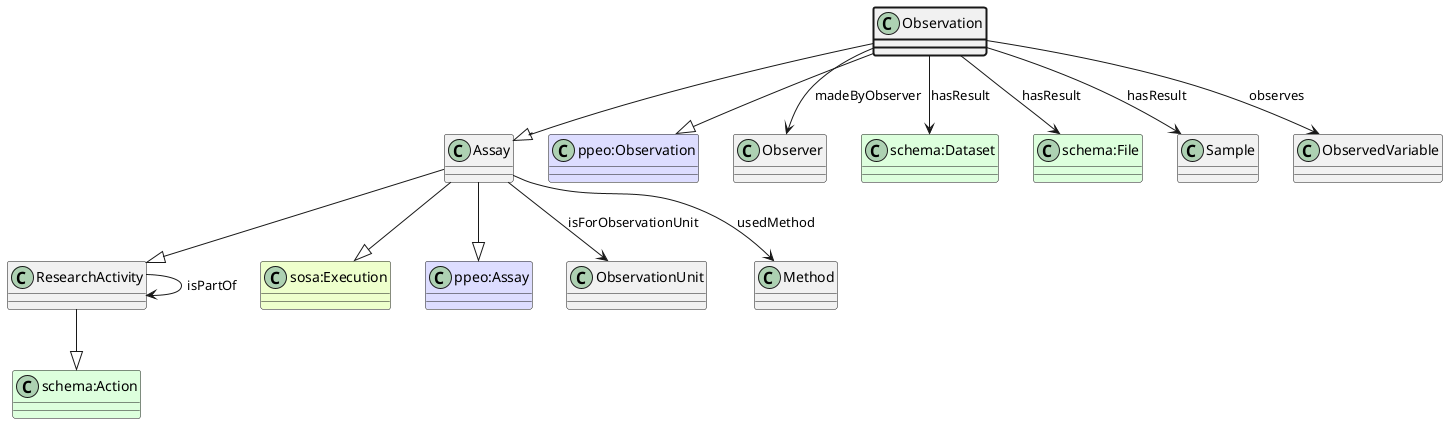
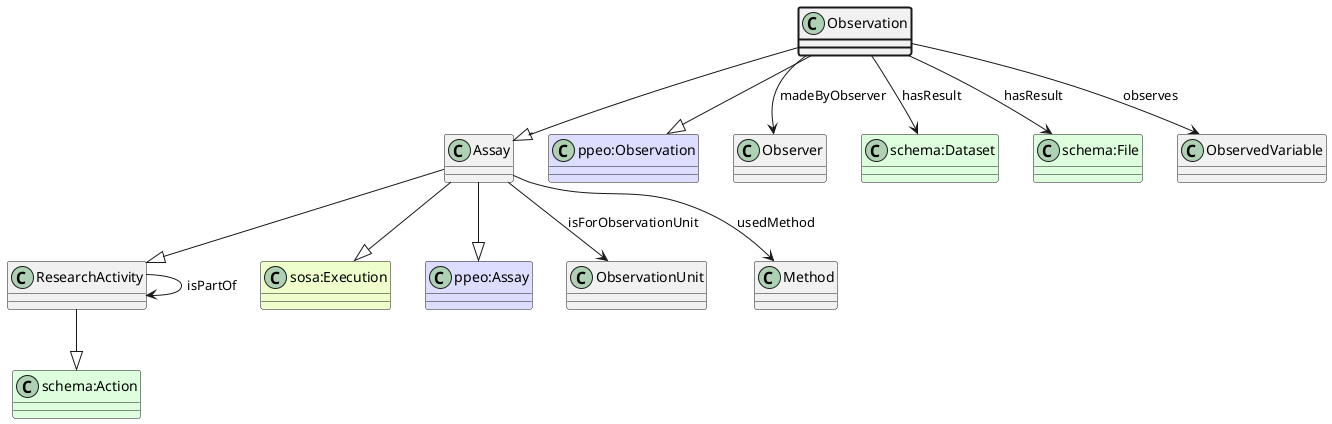
producesSample

diff --git a/ttl2uml.py b/ttl2uml.py
@@ -241,7 +241,6 @@ def write_children(uml: io.TextIOWrapper, md: io.TextIOWrapper, cls: tuple[str,s
             uml.write(f"{child_name} --|> {class_name}\n")
     return class_name
 
-
 # Parse the turtle
 with open(ttl_file) as f:
     for line in f:

diff --git a/doc/appn_Sample.md b/doc/appn_Sample.md
@@ -14,10 +14,7 @@ Sample.
 * https://www.w3.org/ns/sosa/FeatureOfInterest
 * https://bioschemas.org/BioChemEntity
 ## Properties
-* [appn:Observation](/doc/appn_Observation.md) appn:hasResult appn:Sample
-* [appn:Control](/doc/appn_Control.md) appn:hasResult appn:Sample
-* [appn:Transformation](/doc/appn_Transformation.md) appn:hasResult appn:Sample
-* [appn:Sampling](/doc/appn_Sampling.md) appn:hasResult appn:Sample
+* [appn:Sampling](/doc/appn_Sampling.md) appn:producesSample appn:Sample
 * [appn:BiologicalUnit](/doc/appn_BiologicalUnit.md) appn:hasBiologicalUnitType [appn:BiologicalUnitType](/doc/appn_BiologicalUnitType.md)
 * [appn:BiologicalUnit](/doc/appn_BiologicalUnit.md) appn:hasBiologicalMaterial [appn:BiologicalMaterial](/doc/appn_BiologicalMaterial.md)
 * [appn:Assay](/doc/appn_Assay.md) appn:isForObservationUnit [appn:ObservationUnit](/doc/appn_ObservationUnit.md)

diff --git a/doc/appn_Sampling.md b/doc/appn_Sampling.md
@@ -13,9 +13,7 @@ An Assay that derives a new representative ObservationUnit from an existing Obse
 * http://purl.org/ppeo/PPEO.owl#Assay
 ## Properties
 * appn:Sampling appn:madeBySampler [appn:Sampler](/doc/appn_Sampler.md)
-* appn:Sampling appn:hasResult [schema:Dataset](https://schema.org/Dataset)
-* appn:Sampling appn:hasResult [schema:File](https://schema.org/File)
-* appn:Sampling appn:hasResult [appn:Sample](/doc/appn_Sample.md)
+* appn:Sampling appn:producesSample [appn:Sample](/doc/appn_Sample.md)
 * appn:Sampling appn:isMadeBySampler [appn:Sampler](/doc/appn_Sampler.md)
 * [appn:Assay](/doc/appn_Assay.md) appn:isForObservationUnit [appn:ObservationUnit](/doc/appn_ObservationUnit.md)
 * [appn:Assay](/doc/appn_Assay.md) appn:usedMethod [appn:Method](/doc/appn_Method.md)

diff --git a/doc/appn_Observation.md b/doc/appn_Observation.md
@@ -16,7 +16,6 @@ An Assay that observes or measures properties of one or more ObservationUnits re
 * appn:Observation appn:madeByObserver [appn:Observer](/doc/appn_Observer.md)
 * appn:Observation appn:hasResult [schema:Dataset](https://schema.org/Dataset)
 * appn:Observation appn:hasResult [schema:File](https://schema.org/File)
-* appn:Observation appn:hasResult [appn:Sample](/doc/appn_Sample.md)
 * appn:Observation appn:observes [appn:ObservedVariable](/doc/appn_ObservedVariable.md)
 * [appn:Assay](/doc/appn_Assay.md) appn:isForObservationUnit [appn:ObservationUnit](/doc/appn_ObservationUnit.md)
 * [appn:Assay](/doc/appn_Assay.md) appn:usedMethod [appn:Method](/doc/appn_Method.md)

diff --git a/doc/appn_Transformation.md b/doc/appn_Transformation.md
@@ -15,7 +15,6 @@ An Assay that derives new property values or images from existing property value
 * appn:Transformation appn:madeByTransformer [appn:Transformer](/doc/appn_Transformer.md)
 * appn:Transformation appn:hasResult [schema:Dataset](https://schema.org/Dataset)
 * appn:Transformation appn:hasResult [schema:File](https://schema.org/File)
-* appn:Transformation appn:hasResult [appn:Sample](/doc/appn_Sample.md)
 * appn:Transformation appn:usesData [schema:Dataset](https://schema.org/Dataset)
 * appn:Transformation appn:usesData [schema:File](https://schema.org/File)
 * appn:Transformation appn:isMadeByTransformer [appn:Transformer](/doc/appn_Transformer.md)

diff --git a/doc/appn_Control.md b/doc/appn_Control.md
@@ -15,7 +15,6 @@ An Assay that modifies a property of one or more ObservationUnits.
 * appn:Control appn:madeByController [appn:Controller](/doc/appn_Controller.md)
 * appn:Control appn:hasResult [schema:Dataset](https://schema.org/Dataset)
 * appn:Control appn:hasResult [schema:File](https://schema.org/File)
-* appn:Control appn:hasResult [appn:Sample](/doc/appn_Sample.md)
 * appn:Control appn:controls [appn:ControlledVariable](/doc/appn_ControlledVariable.md)
 * appn:Control appn:isMadeByController [appn:Controller](/doc/appn_Controller.md)
 * [appn:Assay](/doc/appn_Assay.md) appn:isForObservationUnit [appn:ObservationUnit](/doc/appn_ObservationUnit.md)
